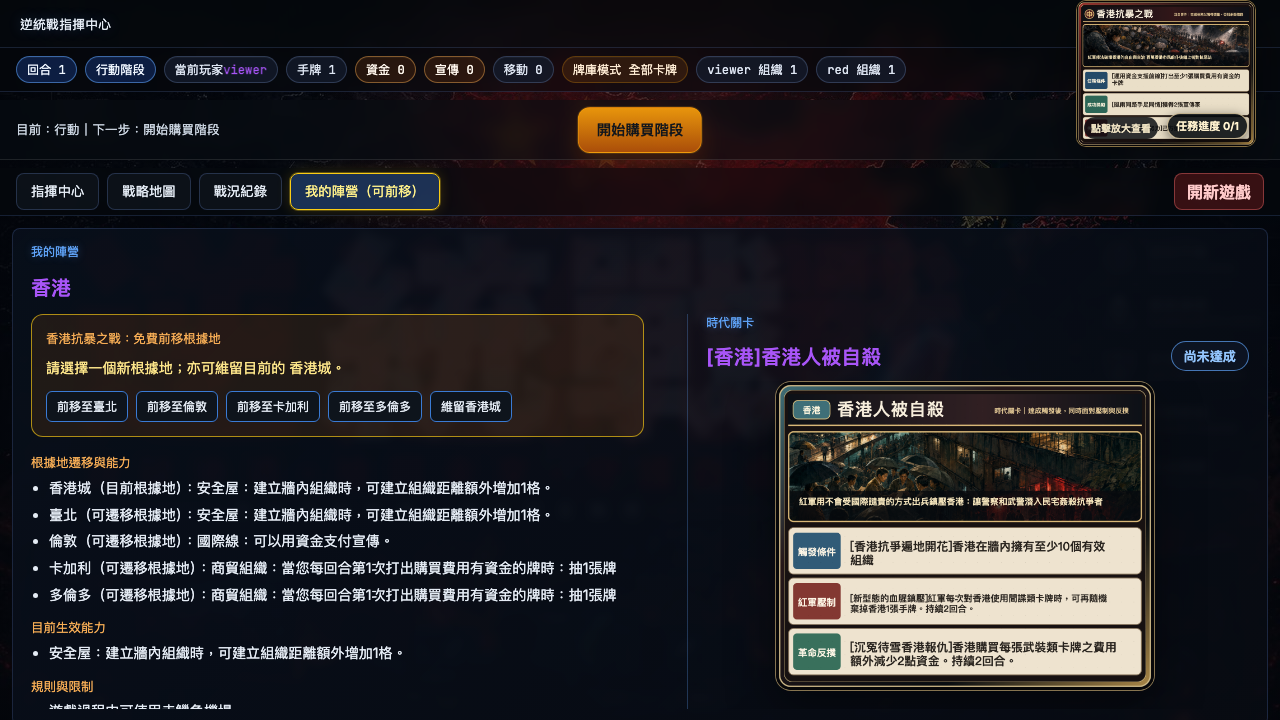
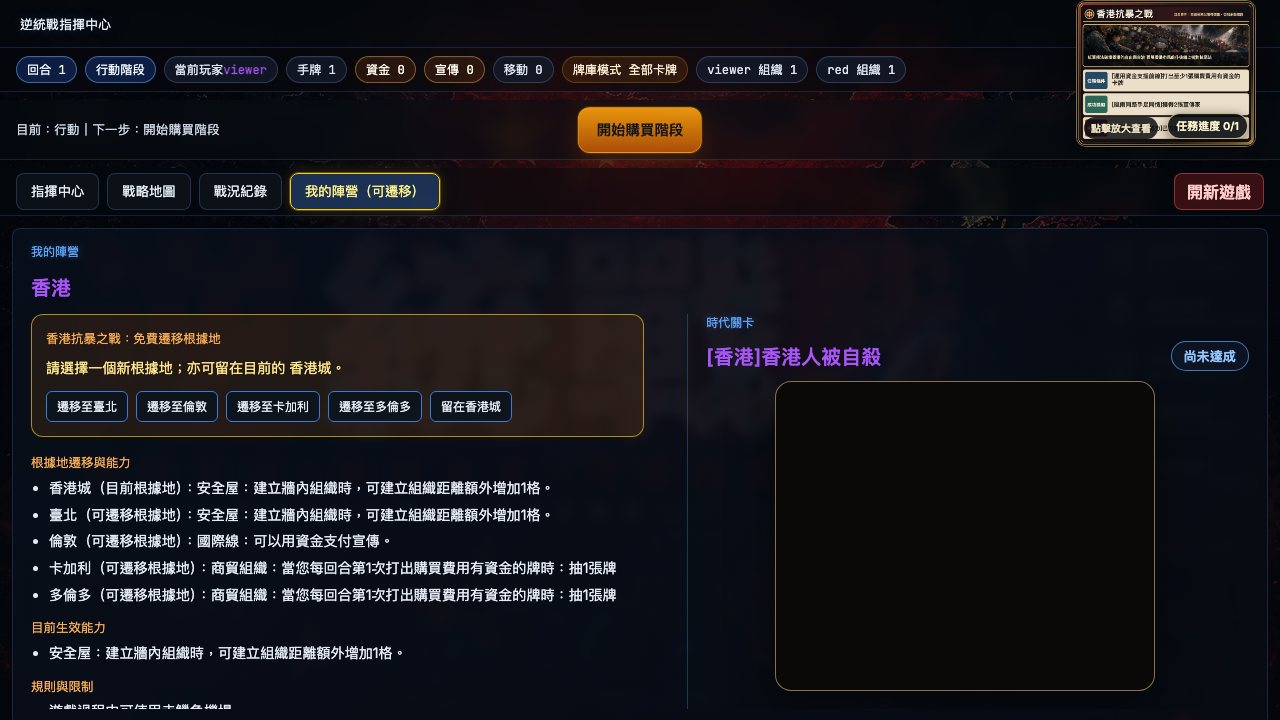
fix: 統一香港根據地遷移用語

diff --git a/static/app.js b/static/app.js
@@ -3018,7 +3018,7 @@ function renderMyFactionView(state = window.lastGameState || {}) {
   const myFactionTab = document.getElementById('myFactionBtn');
   if (myFactionTab) {
     const canRelocate = me?.faction === 'hong_kong' && !!state.hk_free_base_relocation;
-    myFactionTab.textContent = canRelocate ? '我的陣營（可前移）' : '我的陣營';
+    myFactionTab.textContent = canRelocate ? '我的陣營（可遷移）' : '我的陣營';
     myFactionTab.classList.toggle('attention', canRelocate);
   }
   if (!me || !me.faction) {
@@ -3082,14 +3082,14 @@ function renderMyFactionView(state = window.lastGameState || {}) {
     : [];
   const hkRelocationPanel = factionId === 'hong_kong' && state.hk_free_base_relocation
     ? `<section class="hk-base-relocation-panel">
-        <div class="faction-detail-section-title">香港抗暴之戰：免費前移根據地</div>
-        <p>請選擇一個新根據地；亦可維留目前的 ${escapeHtml(baseDisplayName(baseName))}。</p>
+        <div class="faction-detail-section-title">香港抗暴之戰：免費遷移根據地</div>
+        <p>請選擇一個新根據地；亦可留在目前的 ${escapeHtml(baseDisplayName(baseName))}。</p>
         <div class="hk-base-relocation-actions">
           ${hkRelocationTargets.map(base => {
             const occupied = occupiedTowns.has(base.name);
-            return `<button type="button" class="base-choice-btn" data-hk-relocate-town="${escapeHtml(base.name)}" ${occupied ? 'disabled' : ''}>前移至${escapeHtml(baseDisplayName(base.name))}${occupied ? '（已有組織）' : ''}</button>`;
+            return `<button type="button" class="base-choice-btn" data-hk-relocate-town="${escapeHtml(base.name)}" ${occupied ? 'disabled' : ''}>遷移至${escapeHtml(baseDisplayName(base.name))}${occupied ? '（已有組織）' : ''}</button>`;
           }).join('')}
-          <button type="button" class="base-choice-btn" data-hk-keep-base="1">維留${escapeHtml(baseDisplayName(baseName))}</button>
+          <button type="button" class="base-choice-btn" data-hk-keep-base="1">留在${escapeHtml(baseDisplayName(baseName))}</button>
         </div>
       </section>`
     : '';

diff --git a/static/index.html b/static/index.html
@@ -339,6 +339,6 @@
 
 <script src="https://unpkg.com/leaflet@1.9.4/dist/leaflet.js"></script>
 <script src="/static/player_messages_zh_tw.js?v=player-message-i18n-20260801"></script>
-<script src="/static/app.js?v=faction-filter-focus-20260816"></script>
+<script src="/static/app.js?v=hong-kong-relocation-wording-20260816"></script>
 </body>
 </html>

diff --git a/scripts/validate_hong_kong_base_relocation_browser.py b/scripts/validate_hong_kong_base_relocation_browser.py
@@ -58,7 +58,14 @@ def main():
             all(text in lobby_detail for text in expected_relocatable_labels) and '可前移根據地' not in lobby_detail,
             lobby_detail,
         )
-        record('lobby_uses_correct_event_name_and_rule', '香港抗暴之戰' in lobby_detail and '香港抗爭之烈' not in lobby_detail and '免費前移一次根據地' in lobby_detail, lobby_detail)
+        record(
+            'lobby_uses_correct_event_name_and_rule',
+            '香港抗暴之戰' in lobby_detail
+            and '香港抗爭之烈' not in lobby_detail
+            and '免費遷移一次根據地' in lobby_detail
+            and '亦可留在香港城' in lobby_detail,
+            lobby_detail,
+        )
 
         # Runtime proof: event settlement exposes the free relocation controls in My Faction.
         setup = post_json('/test/setup-event-card-proof', {
@@ -77,8 +84,17 @@ def main():
         panel_text = page.locator('.hk-base-relocation-panel').inner_text()
         tab_text = page.locator('#myFactionBtn').inner_text()
         buttons = page.locator('.hk-base-relocation-actions button').all_inner_texts()
-        record('settled_event_marks_my_faction_tab', '可前移' in tab_text, tab_text)
-        record('free_relocation_panel_has_four_targets_and_keep', all(text in '｜'.join(buttons) for text in ['臺北', '倫敦', '卡加利', '多倫多', '維留香港城']) and '香港抗暴之戰' in panel_text, {'panel': panel_text, 'buttons': buttons})
+        expected_buttons = ['遷移至臺北', '遷移至倫敦', '遷移至卡加利', '遷移至多倫多', '留在香港城']
+        record('settled_event_marks_my_faction_tab', '可遷移' in tab_text and '可前移' not in tab_text, tab_text)
+        record(
+            'free_relocation_panel_has_four_targets_and_keep',
+            buttons == expected_buttons
+            and '香港抗暴之戰：免費遷移根據地' in panel_text
+            and '亦可留在目前的 香港城' in panel_text
+            and '前移' not in panel_text
+            and '維留' not in panel_text,
+            {'panel': panel_text, 'buttons': buttons},
+        )
 
         SCREENSHOT.parent.mkdir(parents=True, exist_ok=True)
         page.screenshot(path=str(SCREENSHOT), full_page=True)

diff --git a/server/game.py b/server/game.py
@@ -947,7 +947,7 @@ class Game:
         self.event_progress['status'] = 'success' if succeeded else 'failure'
         result = self._apply_event_effect(effect or {'type': 'none'}, player, outcome='success' if succeeded else 'failure')
         # 香港 special_rules：事件卡「香港抗暴之戰」發生並完成結算後，
-        # 不論任務成功或失敗，香港可在下一回合開始前免費前移一次根據地。
+        # 不論任務成功或失敗，香港可在下一回合開始前免費遷移一次根據地。
         if event.get('name') == '香港抗暴之戰' and any(getattr(pl, 'faction_id', None) == 'hong_kong' for pl in self.players):
             if result and result.get('pending_choice') and self.pending_choice:
                 context = dict(self.pending_choice.get('context') or {})
@@ -6112,7 +6112,7 @@ class Game:
             return {"error": "Cannot relocate base into occupied town"}
         free_window = bool(getattr(self, 'hk_free_base_relocation', False))
         if not free_window:
-            return {"error": "香港抗暴之戰尚未完成結算，沒有免費前移根據地的機會"}
+            return {"error": "香港抗暴之戰尚未完成結算，沒有免費遷移根據地的機會"}
         self.hk_free_base_relocation = False
         via = '香港抗暴之戰（免費）'
         old_base = player.base
@@ -6135,7 +6135,7 @@ class Game:
         if getattr(player, 'faction_id', None) != 'hong_kong':
             return {"error": "Only Hong Kong can decide its base relocation"}
         if not getattr(self, 'hk_free_base_relocation', False):
-            return {"error": "目前沒有免費前移根據地的機會"}
+            return {"error": "目前沒有免費遷移根據地的機會"}
         self.hk_free_base_relocation = False
         self.log(f"{player.name} chose to keep the Hong Kong base at {player.base}")
         return {"success": True, "kept": player.base}

diff --git a/scripts/tests/test_hong_kong_base_relocation.py b/scripts/tests/test_hong_kong_base_relocation.py
@@ -104,7 +104,7 @@ def test_airport_cannot_be_used_as_paid_base_relocation_without_event_window():
 
     result = game.relocate_hong_kong_base(hk.id, '臺北')
 
-    assert result == {'error': '香港抗暴之戰尚未完成結算，沒有免費前移根據地的機會'}
+    assert result == {'error': '香港抗暴之戰尚未完成結算，沒有免費遷移根據地的機會'}
     assert hk.base == '香港城'
     assert hk.organizations == {'香港城': 1}
     assert hk.moves_left == 9
@@ -142,4 +142,4 @@ def test_free_window_closes_when_next_round_event_starts():
     result = game.relocate_hong_kong_base(hk.id, '卡加利')
 
     assert game.hk_free_base_relocation is False
-    assert result == {'error': '香港抗暴之戰尚未完成結算，沒有免費前移根據地的機會'}
+    assert result == {'error': '香港抗暴之戰尚未完成結算，沒有免費遷移根據地的機會'}

diff --git a/scripts/validate_hk_base_relocation.py b/scripts/validate_hk_base_relocation.py
@@ -74,7 +74,7 @@ def case_restrictions():
     bad_target = g.relocate_hong_kong_base(hk.id, '曼谷')
     red.organizations = {'倫敦': 1}
     enemy_blocked = g.relocate_hong_kong_base(hk.id, '倫敦')
-    g.current_player_index = 1  # 免費前移窗口不要求輪到香港
+    g.current_player_index = 1  # 免費遷移窗口不要求輪到香港
     out_of_turn_free = g.relocate_hong_kong_base(hk.id, '臺北')
     g2, hk2, red2 = _new_game()
     g2.hk_free_base_relocation = True

diff --git a/TODO.md b/TODO.md
@@ -14,17 +14,17 @@
 - [done] Browser regression 驗證 16/16 軍火庫、3 次 zoom in、2 次 zoom out、🧨＋💀 同時顯示及 console 0 errors，結果 **7/7 passed**。所有縮放階段的圖示座標一致，畫面偏移固定為 `(+15px, -13px)`。
 
 ### P1：修正香港根據地遷移用語
-- [ ] 將香港根據地事件與 UI 中的「前移」統一改為「遷移」。包含「免費前移根據地」→「免費遷移根據地」、「可前移」→「可遷移」，以及「前移至臺北／倫敦／卡加利／多倫多」→「遷移至臺北／倫敦／卡加利／多倫多」。
-- [ ] 將「維留」統一改為「留在」。包含提示文字「亦可維留目前的香港城」→「亦可留在目前的香港城」，以及按鈕「維留香港城」→「留在香港城」。
-- [ ] 依截圖逐項檢查分頁名稱、事件標題、提示文字及五個操作按鈕。截圖證據：`docs/records/faction-ui/hong-kong-relocation-wording/playtest-wording-20260816.jpg`。
-- [ ] 本項目前只記錄，尚未實作。
+- [done] 將香港根據地事件與 UI 中的「前移」統一改為「遷移」。包含「免費前移根據地」→「免費遷移根據地」、「可前移」→「可遷移」，以及「前移至臺北／倫敦／卡加利／多倫多」→「遷移至臺北／倫敦／卡加利／多倫多」。
+- [done] 將「維留」統一改為「留在」。包含提示文字「亦可維留目前的香港城」→「亦可留在目前的香港城」，以及按鈕「維留香港城」→「留在香港城」。
+- [done] 依截圖逐項檢查分頁名稱、事件標題、提示文字及五個操作按鈕。原始截圖證據：`docs/records/faction-ui/hong-kong-relocation-wording/playtest-wording-20260816.jpg`；修正後證據：`docs/records/faction-ui/hong-kong-base-relocation/hong_kong_base_relocation_ui.png`。
+- [done] 已同步更新 UI、伺服器訊息、陣營資料、正式規則、驗證器與回歸測試。
 
 ### P1：修正「香港抗暴之戰」事件名稱與香港根據地效果
 - [done] 正式名稱已統一為事件卡「香港抗暴之戰」；陣營資料、`rules.md`、UI 與 runtime 不再把「香港抗爭之烈」當作有效事件名稱。
-- [done] 「香港抗暴之戰」完成結算後，不論任務成功或失敗，香港可在下一回合開始前免費前移一次根據地至臺北、倫敦、卡加利或多倫多；亦可明確選擇維留目前根據地。目的地已有實體組織時不可前移。
-- [done] 已分離兩種規則：事件負責免費前移根據地；赤鱲角機場只負責花費 2 次遷移移動香港組織，不能再被誤用為付費遷移根據地。
+- [done] 「香港抗暴之戰」完成結算後，不論任務成功或失敗，香港可在下一回合開始前免費遷移一次根據地至臺北、倫敦、卡加利或多倫多；亦可明確選擇留在目前根據地。目的地已有實體組織時不可遷移。
+- [done] 已分離兩種規則：事件負責免費遷移根據地；赤鱲角機場只負責花費 2 次遷移移動香港組織，不能再被誤用為付費遷移根據地。
 - [done] 大廳陣營選擇與遊戲內「我的陣營」均會列出香港城、臺北、倫敦、卡加利及多倫多的能力、目前根據地、可遷移根據地、解鎖事件及遷移後能力切換。
-- [done] 事件窗口開啟時，「我的陣營（可前移）」會亮起，並提供四個前移按鈕及維留按鈕。Browser proof **9/9 passed**；單元與 board-action 聚焦回歸 **8/8 passed**；規則 validator **5/5 passed**。
+- [done] 事件窗口開啟時，「我的陣營（可遷移）」會亮起，並提供四個遷移按鈕及「留在」按鈕。Browser proof **9/9 passed**；單元與 board-action 聚焦回歸 **8/8 passed**；規則 validator **5/5 passed**。
 - [done] 修正「香港抗暴之戰」任務失敗時，必要棄牌尚未完成卻提前顯示根據地按鈕，導致所有目的地都回覆「請先完成目前的選擇」。現在先完成事件要求的棄牌，再開啟根據地遷移窗口。臺北、倫敦、卡加利及多倫多四個目的地 Browser proof **15/15 passed**；截圖證據位於 `docs/records/faction-ui/hong-kong-base-relocation/`。
 - [done] 「全國人大召開」期間，香港以安全屋能力在牆內建立組織會計為「使用或觸發陣營特殊能力」；香港遷至不具安全屋的根據地後不會誤算。
 - [done] 完成全部陣營特殊能力的 `use_faction_ability` 追蹤稽核。補上游擊隊、殉道者／青山里、盟旗學校、華文傳媒／國際線、赤鱲角機場，並將紅軍派系、賭徒耳語、民族祭儀改為待決效果完成後才計入。能力聚焦測試 **25/25 passed**；正式 Browser proof **7/7 passed**；完整 pytest **360/360 passed**。完整矩陣見 `docs/records/factions/FACTION_ABILITY_EVENT_TRACKING_AUDIT.md`。
@@ -1063,11 +1063,11 @@
   - proof：`docs/records/rules-audit/CHEK_LAP_KOK_AIRPORT_VALIDATION_20260711.{json,md}`。
   - S5 剩餘：已於同日由使用者裁決並實作完成，見下一條。
 
-- [done] S5-1：香港根據地免費前移規則（2026-08-14 依使用者最新裁決修正）。
-  - 正式規則：事件卡**香港抗暴之戰**完成結算後（成功或失敗皆算），香港可在下一回合開始前免費前移一次根據地至臺北／倫敦／卡加利／多倫多，亦可維留目前根據地。
+- [done] S5-1：香港根據地免費遷移規則（2026-08-14 依使用者最新裁決修正）。
+  - 正式規則：事件卡**香港抗暴之戰**完成結算後（成功或失敗皆算），香港可在下一回合開始前免費遷移一次根據地至臺北／倫敦／卡加利／多倫多，亦可留在目前根據地。
   - 赤鱲角機場是另一項「花費 2 次遷移移動香港組織」的規則，不提供付費遷移根據地。舊紀錄把兩者混在一起，現已移除錯誤路徑。
-  - 實作：事件結算開啟 `hk_free_base_relocation`；`relocate_hong_kong_base` 只接受免費窗口；新增 `keep_hong_kong_base`；根據地錨定組織與在地能力隨前移切換；目的地已有組織時封鎖。
-  - UI：大廳及「我的陣營」列出全部五個根據地與能力；窗口開啟時顯示四個前移按鈕與維留按鈕。
+  - 實作：事件結算開啟 `hk_free_base_relocation`；`relocate_hong_kong_base` 只接受免費窗口；新增 `keep_hong_kong_base`；根據地錨定組織與在地能力隨遷移切換；目的地已有組織時封鎖。
+  - UI：大廳及「我的陣營」列出全部五個根據地與能力；窗口開啟時顯示四個遷移按鈕與「留在」按鈕。
   - 驗證：`validate_hk_base_relocation.py` 5/5、Browser proof 8/8、pytest 聚焦 8/8。
 
 - [done] 資料修正：刪除 `dian_zhuang`（滇（壯））重複陣營條目（2026-07-11 使用者裁決 B）。

diff --git a/docs/records/rules-audit/RULES_VS_IMPLEMENTATION_GAP_AUDIT_SECOND_PASS_20260711.md b/docs/records/rules-audit/RULES_VS_IMPLEMENTATION_GAP_AUDIT_SECOND_PASS_20260711.md
@@ -133,7 +133,7 @@
 | A4 | 2/3 共同勝利語意 | **「在有反共陣營玩家獲得勝利之際，其他反共陣營玩家若已達到所屬陣營勝利條件的 2/3 以上（含），視為共同勝利者。」**（**已實作 2026-07-11**） |
 | S4 附帶 | 達賴救援/東突厥斯坦政府的「宣傳卡」 | **A＝宣傳家**——現行實作正確，此項關閉 |
 | S2 裁定追認 | 東洋奧援 III 級對受限陣營降級為1格 | **A＝追認**，維持現狀，此項關閉 |
-| S5-1 | 「香港抗暴之戰」事件後根據地前移 | **2026-08-14 最新裁決**：正式名稱只有「香港抗暴之戰」。事件結算後下一回合前可免費前移一次根據地至臺北/倫敦/卡加利/多倫多，亦可維留；赤鱲角機場只移動組織，不提供付費遷移根據地（驗證 `validate_hk_base_relocation.py` 5/5） |
+| S5-1 | 「香港抗暴之戰」事件後根據地遷移 | **2026-08-16 用語修正**：正式名稱只有「香港抗暴之戰」。事件結算後下一回合前可免費遷移一次根據地至臺北/倫敦/卡加利/多倫多，亦可留在目前根據地；赤鱲角機場只移動組織，不提供付費遷移根據地（驗證 `validate_hk_base_relocation.py` 5/5） |
 
 ## 合併後的待辦優先順序建議（第一輪剩餘 + 第二輪新發現）
 
@@ -150,7 +150,7 @@
 
 ### 第三梯隊（需先確認規則語意才能動工）
 8. ~~**B1-c**：區域門檻奧援卡 II 級 AND/OR 語意~~ ——**2026-07-11 裁決為 OR 並已修正實作**（`_support_card_tier` 改為任一配對地區命中即 II 級；`validate_east_asia_support_taxonomy_fix.py` 擴充單一地區案例 6/6 PASS）。
-9. ~~**S5**~~ ——**依 2026-08-14 最新裁決完成**：赤鱲角機場組織遷移（7/7）與「香港抗暴之戰」後免費前移根據地（5/5）是兩項不同規則；不存在機場付費遷移根據地。前端 UI 已補齊。
+9. ~~**S5**~~ ——**依 2026-08-16 最新用語完成**：赤鱲角機場組織遷移（7/7）與「香港抗暴之戰」後免費遷移根據地（5/5）是兩項不同規則；不存在機場付費遷移根據地。前端 UI 已補齊。
 10. ~~**C1**：內鬥改雙倍分神的觸發時機~~ ——**2026-07-11 裁決為供應替代規則並已實作**（含修掉 `離間`/`情報網A` 憑空創造內鬥的供應違規；驗證 `validate_double_distraction_substitution.py` 5/5）。
 11. ~~**A4**：「2/3 共同勝利」語意~~ ——**2026-07-11 裁決並已實作**（反共玩家獲勝時，其他反共玩家進度 >= 2/3 為共同勝利者；驗證 `validate_co_winners.py` 4/4）。
 12. ~~**S4 附帶**：達賴救援/東突厥斯坦政府的「宣傳卡」所指~~ ——**2026-07-11 裁決＝宣傳家（現行實作正確），關閉**。

diff --git a/rules.md b/rules.md
@@ -180,16 +180,16 @@
 鐵路：3格  
 一般：1格  
 
-### 香港陣營：「香港抗暴之戰」後免費前移根據地
+### 香港陣營：「香港抗暴之戰」後免費遷移根據地
 
 - 正確事件卡名稱是「香港抗暴之戰」。
-- 「香港抗暴之戰」發生並完成結算後，不論任務成功或失敗，香港陣營均可在下一回合開始前免費前移一次根據地。
-- 可前移至臺北、倫敦、卡加利或多倫多。
-- 香港亦可選擇維留香港城；選擇維留後，本次免費前移機會結束。
-- 根據地前移時，原根據地的錨定組織會移至新根據地。
-- 目的地已有任何實體組織時，不可前移至該城鎮。
-- 前移後只使用新根據地的特殊能力；原根據地能力不再生效。
-- 此規則與赤鱲角機場的組織遷移功能不同。赤鱲角機場不能作為一般付費前移根據地的方法。
+- 「香港抗暴之戰」發生並完成結算後，不論任務成功或失敗，香港陣營均可在下一回合開始前免費遷移一次根據地。
+- 可遷移至臺北、倫敦、卡加利或多倫多。
+- 香港亦可選擇留在香港城；選擇留在後，本次免費遷移機會結束。
+- 根據地遷移時，原根據地的錨定組織會移至新根據地。
+- 目的地已有任何實體組織時，不可遷移至該城鎮。
+- 遷移後只使用新根據地的特殊能力；原根據地能力不再生效。
+- 此規則與赤鱲角機場的組織遷移功能不同。赤鱲角機場不能作為一般付費遷移根據地的方法。
 
 ### 香港陣營：赤鱲角機場
 

diff --git a/docs/records/NEXT_SESSION_START_20260711.md b/docs/records/NEXT_SESSION_START_20260711.md
@@ -46,7 +46,7 @@
 
 第三梯隊（**先確認語意再動工**——這些項目請把疑問整理成清單回報，等使用者確認後才實作，不要自行假設）：
 8. ~~B1-c：II 級 AND/OR 語意~~ ——**已裁決為 OR 並於 2026-07-11 修正，跳過**。
-9. ~~S5~~ ——**依 2026-08-14 最新裁決完成，跳過**（赤鱲角機場只移動組織；事件卡「香港抗暴之戰」結算後才可免費前移根據地；不存在「香港抗爭之烈」或機場付費遷移根據地）。前端根據地按鈕與免費窗口提示已完成。
+9. ~~S5~~ ——**依 2026-08-16 最新用語完成，跳過**（赤鱲角機場只移動組織；事件卡「香港抗暴之戰」結算後才可免費遷移根據地；不存在「香港抗爭之烈」或機場付費遷移根據地）。前端根據地按鈕與免費窗口提示已完成。
 10. ~~C1：內鬥可改雙倍分神~~ ——**已裁決（供應替代）並於 2026-07-11 實作，跳過**。
 11. ~~A4：共同勝利語意~~ ——**已裁決並於 2026-07-11 實作，跳過**（反共玩家獲勝時其他反共玩家進度 >= 2/3 為共同勝利者；UI 顯示歸 P1「第20回合勝利宣告」項目）。
 12. ~~S4 附帶：「宣傳卡」所指~~ ——**已裁決＝宣傳家（現行實作正確），關閉**。
